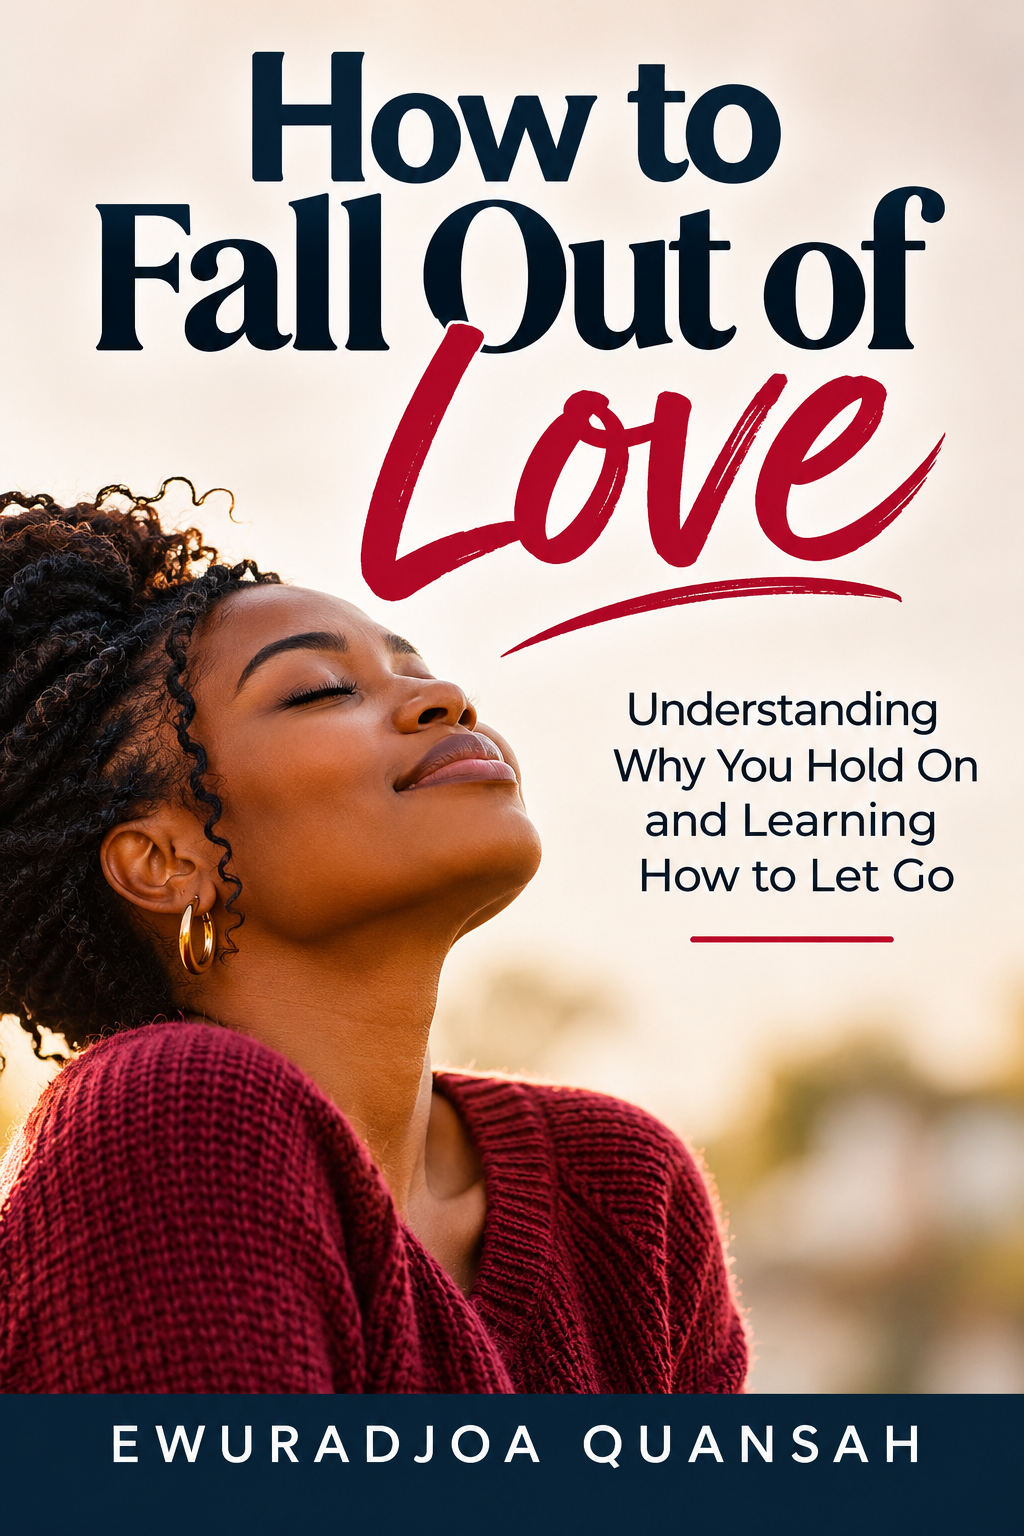
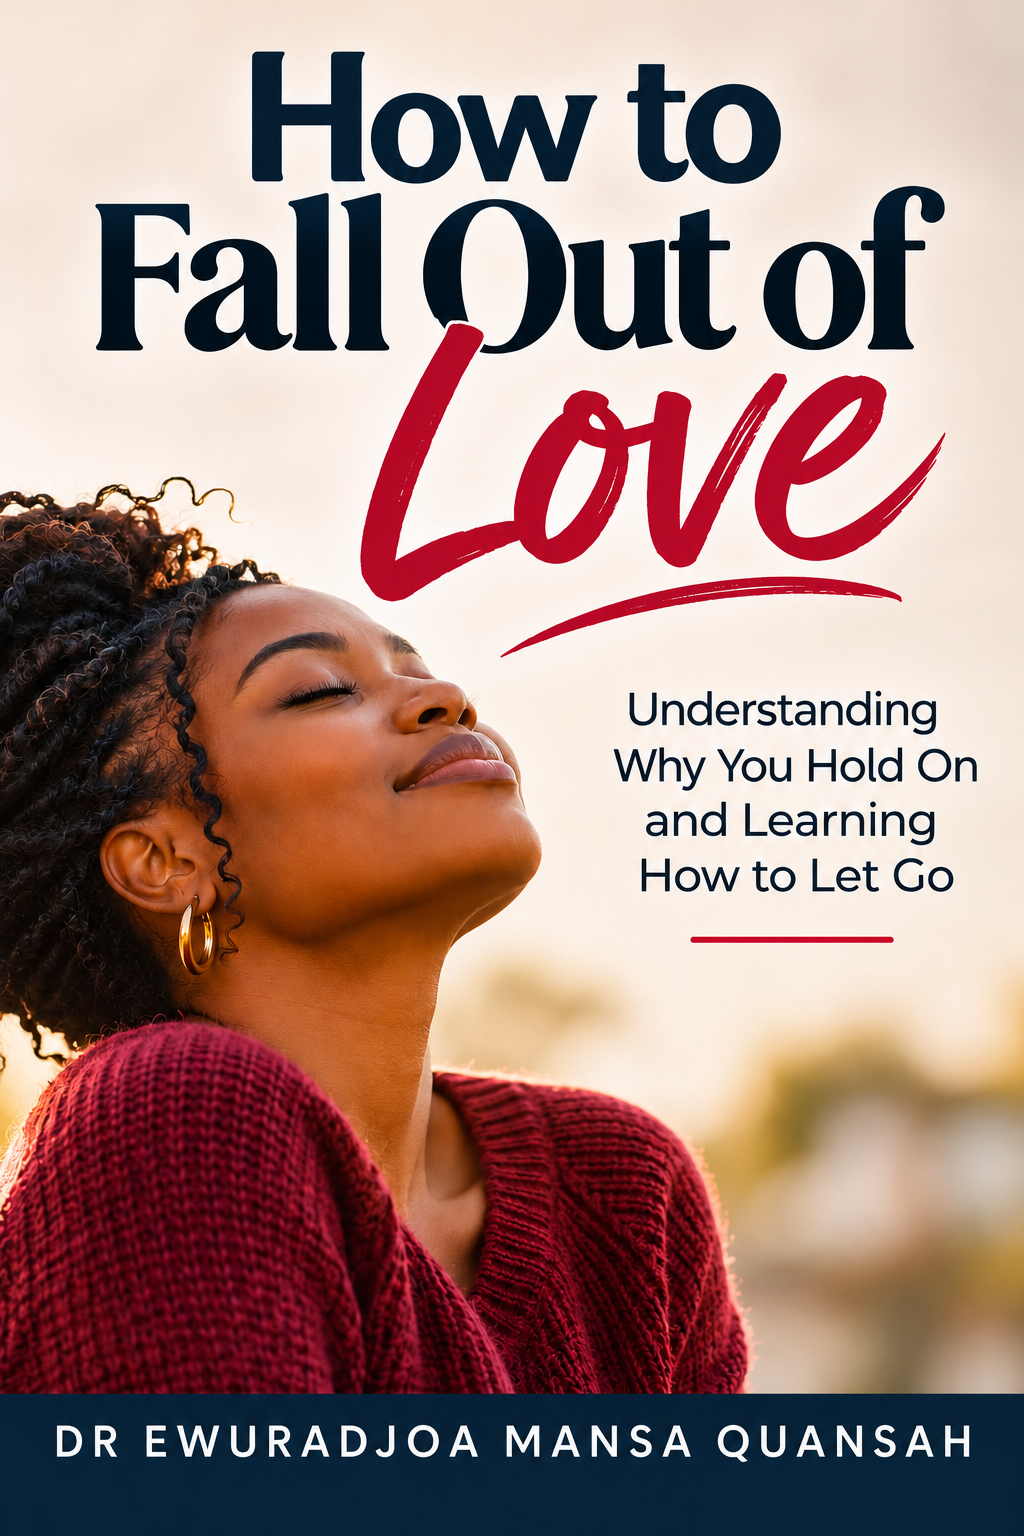
Update book covers and author details

diff --git a/src/app/page.tsx b/src/app/page.tsx
@@ -4,20 +4,20 @@ import { ArrowDown, ArrowRight, BookOpen } from 'lucide-react';
 
 export const metadata: Metadata = {
   title: 'Bookshop | Scholarly Insights Academia',
-  description: 'Thoughtful books by Ewuradjoa Quansah. Explore the Scholarly Insights Academia bookshop.',
+  description: 'Thoughtful books by Dr Ewuradjoa Mansa Quansah. Explore the Scholarly Insights Academia bookshop.',
 };
 
 const featuredBook = {
   href: '/books/how-to-fall-out-of-love',
   title: 'How to Fall Out of Love',
   subtitle: 'Understanding Why You Hold On and Learning How to Let Go',
-  author: 'Ewuradjoa Quansah',
+  author: 'Dr Ewuradjoa Mansa Quansah',
   cover: '/books/how-to-fall-out-of-love.png',
 };
 
 const forthcomingBook = {
   title: 'The Scholarship Blueprint',
-  author: 'Ewuradjoa Mansa Quansah',
+  author: 'Dr Ewuradjoa Mansa Quansah',
   cover: '/books/scholarship-blueprint.png',
 };
 
@@ -26,7 +26,7 @@ export default function Home() {
     <div className="announcement">A BOOKSHOP FOR THE CHAPTERS THAT CHANGE US <span>·</span> SCHOLARLY INSIGHTS ACADEMIA</div>
     <header className="nav wrap"><Link href="/" className="brand"><span className="brand-mark">S</span><span>SCHOLARLY INSIGHTS<small>ACADEMIA · BOOKSHOP</small></span></Link><nav><a href="#books">Books</a><a href="#about">About the bookshop</a></nav><a href="#books" className="nav-cta">Explore books <ArrowRight size={15}/></a></header>
 
-    <section className="catalog-hero wrap"><div className="catalog-hero-copy"><p className="eyebrow"><span className="eyebrow-line"/> WORDS FOR THE WAY FORWARD</p><h1>Thoughtful books<br/>for the chapters<br/><em>that change us.</em></h1><p className="dek">Explore honest, hopeful writing by Ewuradjoa Quansah—books to return to as life asks something new of you.</p><a href="#books" className="button button-dark">Browse the bookshop <ArrowDown size={16}/></a></div><Link className="catalog-hero-book" href={featuredBook.href} aria-label={`Discover ${featuredBook.title}`}><img src={featuredBook.cover} alt={`Cover of ${featuredBook.title} by ${featuredBook.author}`}/><span>NOW IN THE BOOKSHOP <ArrowRight size={14}/></span></Link></section>
+    <section className="catalog-hero wrap"><div className="catalog-hero-copy"><p className="eyebrow"><span className="eyebrow-line"/> WORDS FOR THE WAY FORWARD</p><h1>Thoughtful books<br/>for the chapters<br/><em>that change us.</em></h1><p className="dek">Explore honest, hopeful writing by Dr Ewuradjoa Mansa Quansah—books to return to as life asks something new of you.</p><a href="#books" className="button button-dark">Browse the bookshop <ArrowDown size={16}/></a></div><Link className="catalog-hero-book" href={featuredBook.href} aria-label={`Discover ${featuredBook.title}`}><img src={featuredBook.cover} alt={`Cover of ${featuredBook.title} by ${featuredBook.author}`}/><span>NOW IN THE BOOKSHOP <ArrowRight size={14}/></span></Link></section>
 
     <section className="catalog-list wrap" id="books"><div className="catalog-heading"><div><div className="section-kicker">A GROWING COLLECTION</div><h2>Browse the <em>bookshop.</em></h2></div><p>Each title has its own page with the story, available editions and reader notes.</p></div>
       <article className="catalog-book"><Link className="catalog-book-cover" href={featuredBook.href}><img src={featuredBook.cover} alt={`Cover of ${featuredBook.title}`}/></Link><div className="catalog-book-copy"><div className="section-kicker">PERSONAL GROWTH · REFLECTIONS</div><h3>{featuredBook.title}</h3><p className="catalog-subtitle">{featuredBook.subtitle}</p><p>A gentle, honest companion for understanding why we hold on—and finding the courage to choose ourselves again.</p><div className="catalog-author"><BookOpen size={16}/> By {featuredBook.author}</div><div className="catalog-formats"><span>Ebook</span><span>Paperback</span></div><Link href={featuredBook.href} className="button button-dark">Discover this book <ArrowRight size={15}/></Link></div><div className="catalog-book-index">01</div></article>

diff --git a/src/app/books/how-to-fall-out-of-love/page.tsx b/src/app/books/how-to-fall-out-of-love/page.tsx
@@ -8,17 +8,17 @@ import { checkoutReady } from '@/lib/config';
 export const dynamic = 'force-dynamic';
 export const metadata: Metadata = {
   title: 'How to Fall Out of Love | Scholarly Insights Academia',
-  description: 'A gentle, honest companion for understanding why we hold on and learning how to let go, by Ewuradjoa Quansah.',
+  description: 'A gentle, honest companion for understanding why we hold on and learning how to let go, by Dr Ewuradjoa Mansa Quansah.',
 };
 
 export default function Home() {
   const checkoutOpen = checkoutReady();
   return <main>
-    <div className="announcement">A new perspective on love, loss and letting go <span>·</span> By Ewuradjoa Quansah</div>
+    <div className="announcement">A new perspective on love, loss and letting go <span>·</span> By Dr Ewuradjoa Mansa Quansah</div>
     <header className="nav wrap"><Link href="/" className="brand"><span className="brand-mark">S</span><span>SCHOLARLY INSIGHTS<small>ACADEMIA · BOOKSHOP</small></span></Link><nav><Link href="/">All books</Link><a href="#inside">Inside the book</a><a href="#reviews">Reader notes</a></nav><a href="#editions" className="nav-cta">Choose your edition <ArrowRight size={15}/></a></header>
 
-    <section className="hero wrap" id="the-book"><div className="hero-copy"><p className="eyebrow"><span className="eyebrow-line"/> A GUIDE TO LETTING GO</p><h1>Some endings<br/>are <em>beginnings</em><br/>in disguise.</h1><p className="dek">A gentle, honest companion for understanding why we hold on—and finding the courage to choose ourselves again.</p><div className="byline"><span className="avatar">EQ</span><span><b>Ewuradjoa Quansah</b><small>Author · Scholarly Insights Academia</small></span></div><a href="#editions" className="button button-dark">Find your edition <ArrowDown size={16}/></a><div className="hero-proof"><span><Star size={14} fill="currentColor"/> A thoughtful read for your next chapter</span></div></div>
-      <div className="book-stage"><div className="sun-disc"/><div className="book-shadow"/><img className="real-book-cover" src="/books/how-to-fall-out-of-love.png" alt="Cover of How to Fall Out of Love by Ewuradjoa Quansah"/><div className="stage-caption">A little space to find yourself again <span>✳</span></div></div>
+    <section className="hero wrap" id="the-book"><div className="hero-copy"><p className="eyebrow"><span className="eyebrow-line"/> A GUIDE TO LETTING GO</p><h1>Some endings<br/>are <em>beginnings</em><br/>in disguise.</h1><p className="dek">A gentle, honest companion for understanding why we hold on—and finding the courage to choose ourselves again.</p><div className="byline"><span className="avatar">EQ</span><span><b>Dr Ewuradjoa Mansa Quansah</b><small>Author · Scholarly Insights Academia</small></span></div><a href="#editions" className="button button-dark">Find your edition <ArrowDown size={16}/></a><div className="hero-proof"><span><Star size={14} fill="currentColor"/> A thoughtful read for your next chapter</span></div></div>
+      <div className="book-stage"><div className="sun-disc"/><div className="book-shadow"/><img className="real-book-cover" src="/books/how-to-fall-out-of-love.png" alt="Cover of How to Fall Out of Love by Dr Ewuradjoa Mansa Quansah"/><div className="stage-caption">A little space to find yourself again <span>✳</span></div></div>
     </section>
 
     <section className="quote-band"><div className="wrap quote-inner"><span className="quote-mark">“</span><p>Letting go is not forgetting what mattered.<br/><em>It is remembering that you matter, too.</em></p><span className="quote-note">A note for the heart in transition</span></div></section>

diff --git a/src/app/layout.tsx b/src/app/layout.tsx
@@ -5,7 +5,7 @@ import './admin.css';
 
 export const metadata: Metadata = {
   title: 'Scholarly Insights Academia Bookshop',
-  description: 'Thoughtful books by Ewuradjoa Quansah. Explore the Scholarly Insights Academia bookshop.',
+  description: 'Thoughtful books by Dr Ewuradjoa Mansa Quansah. Explore the Scholarly Insights Academia bookshop.',
 };
 
 export default function RootLayout({ children }: Readonly<{ children: React.ReactNode }>) {
